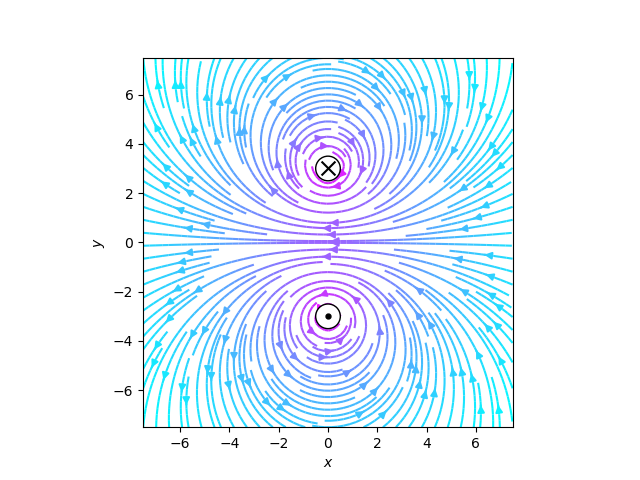
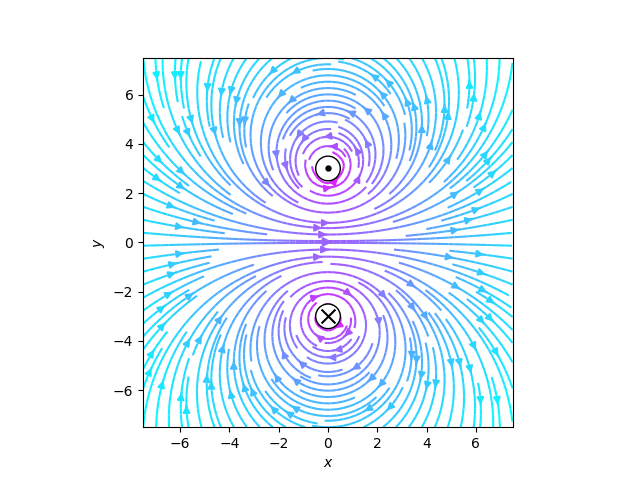
EBFieldSolver

diff --git a/src/StaticField.py b/src/StaticField.py
@@ -4,7 +4,7 @@ import matplotlib.pyplot as plt
 import numpy as np
 import FieldUtil as util
 import FieldAnimation as anim
-import FieldOperation
+import FieldOperator
 
 from FieldObject import PointCharge, Conductor
 
@@ -37,8 +37,8 @@ conductors = []
 # conductors.append(Conductor(1.0, [0.0, 0.0]))
 
 # conductor loop
-conductors.append(Conductor(-1.0, [0.0, 3.0]))
-conductors.append(Conductor(1.0, [0.0, -3.0]))
+conductors.append(Conductor(1.0, [0.0, 3.0]))
+conductors.append(Conductor(-1.0, [0.0, -3.0]))
 
 # coil
 # for i in np.linspace(-5, 5, 10):
@@ -52,10 +52,10 @@ def compute_total_field(x, y, field_objects, potential_field=False):
         for i in range(len(x)):
             for j in range(len(y)):
                 if potential_field:
-                    field = field_object.compute_potential(x[i][j], y[i][j])
+                    field = field_object.compute_potential(x[i][j], y[i][j], 0)
                     x_field[i][j] += field
                 else:
-                    field = field_object.compute_field(x[i][j], y[i][j])
+                    field = field_object.compute_field(x[i][j], y[i][j], 0)
                     x_field[i][j] += field[0]
                     y_field[i][j] += field[1]
     return [x_field, y_field]
@@ -81,25 +81,24 @@ if __name__ == "__main__":
     X, Y = np.meshgrid(np.linspace(-xy_max, xy_max, n_xy),
                        np.linspace(-xy_max, xy_max, n_xy))
 
+    "E-Field of charges"
     E = compute_total_field(X, Y, charges)
     Z = compute_total_field(X, Y, charges, potential_field=True)
     levels = np.linspace(np.min(Z[0]) / 10, np.max(Z[0]) / 10, 10)
     total_bodies = compute_bodies(charges)
 
     # div_E = FieldOperation.divergence(X, Y, E)
-    grad_phi = FieldOperation.gradient(Z[0])
+    grad_phi = FieldOperator.grad(Z[0])
     grad_phi_norm = np.hypot(grad_phi[0], grad_phi[1])
 
-    # util.plot_arrows(X, Y, grad_phi[0] / grad_phi_norm, grad_phi[1] / grad_phi_norm)
-    # util.plot_intensity(X, Y, div_E, cmap='coolwarm')
     util.plot_streamlines(X, Y, grad_phi[0], grad_phi[1], color='grey')
     util.plot_contourf(X, Y, Z[0], levels)
     util.plot_forms(total_bodies)
 
     anim.render_frame(loc='charges', aspect=True)
 
+    "B-Field of conductors"
     B = compute_total_field(X, Y, conductors)
-    # A = np.array([0, 0, compute_total_field(X, Y, conductors, potential_field=True)])
     total_bodies = compute_bodies(conductors)
     total_details = compute_details(conductors)
 
@@ -107,12 +106,11 @@ if __name__ == "__main__":
     for conductor in conductors:
         for i in range(len(X)):
             for j in range(len(Y)):
-                rot_x, rot_y = FieldOperation.curl_x(X[i][j], Y[i][j], conductor)
+                rot_x, rot_y, rot_z = FieldOperator.curl(X[i][j], Y[i][j], 0, conductor.compute_potential)
                 rot_Ax[i][j] += rot_x
                 rot_Ay[i][j] += rot_y
     rot_A_norm = np.hypot(rot_Ax, rot_Ay)
 
-    # util.plot_arrows(X, Y, rot_A_x / rot_A_norm, rot_A_y / rot_A_norm)
     util.plot_streamlines(X, Y, rot_Ax, rot_Ay, color=np.log(rot_A_norm), cmap='cool', zorder=1, density=2)
     util.plot_forms(total_bodies)
     util.plot_details(total_details)

diff --git a/src/FieldObject.py b/src/FieldObject.py
@@ -22,15 +22,18 @@ class PointCharge:
 
         return plt.Circle(self.r0, self.R, color=q_color)
 
-    def compute_field(self, x, y):
+    def compute_field(self, x, y, z):
         r = np.hypot(x - self.r0[0], y - self.r0[1])
         Ex = self.const * self.q * (x - self.r0[0]) / r ** 3
         Ey = self.const * self.q * (y - self.r0[1]) / r ** 3
-        return [Ex, Ey]
+        Ez = 0
 
-    def compute_potential(self, x, y):
+        return [Ex, Ey, Ez]
+
+    def compute_potential(self, x, y, z):
         r = np.hypot(x - self.r0[0], y - self.r0[1])
         phi = self.const * self.q * (1 / r)
+
         return phi
 
 
@@ -62,14 +65,18 @@ class Conductor:
 
         return [self.r0[0], self.r0[1], size, I_color, I_direction]
 
-    def compute_field(self, x, y):
+    def compute_field(self, x, y, z):
         mag = self.const * (self.I / np.hypot(x - self.r0[0], y - self.r0[1]))
         Bx = mag * (-np.sin(np.arctan2(x - self.r0[0], y - self.r0[1])))
         By = mag * (np.cos(np.arctan2(x - self.r0[0], y - self.r0[1])))
+        Bz = 0
 
-        return [By, Bx]
+        return [By, Bx, Bz]
 
-    def compute_potential(self, x, y):
+    def compute_potential(self, x, y, z):
         mag = -(1 / 2) * self.const * self.I
+        Bx = 0
+        By = 0
         Bz = mag * np.log((x - self.r0[0])**2 + (y - self.r0[1])**2)
-        return Bz
+
+        return [Bx, By, Bz]

diff --git a/src/FieldOperator.py b/src/FieldOperator.py
@@ -1,0 +1,38 @@
+import numpy as np
+from scipy.misc import derivative
+
+
+def grad(f):
+    dy, dx = np.gradient(f)
+    return [dx, dy]
+
+
+def gradient(x, y, z, f):
+    dx = derivative(lambda x0: f(x0, y, z), x, 0.01)
+    dy = derivative(lambda y0: f(x, y0, z), y, 0.01)
+    dz = derivative(lambda z0: f(x, y, z0), z, 0.01)
+    return [dx, dy, dz]
+
+
+def divergence(x, y, z, f):
+    dx = derivative(lambda x0: f(x0, y, z), x, 0.01)
+    dy = derivative(lambda y0: f(x, y0, z), y, 0.01)
+    dz = derivative(lambda z0: f(x, y, z0), z, 0.01)
+    return dx + dy + dz
+
+
+def curl(x, y, z, f):
+    dfx_dy = derivative(lambda y0: f(x, y0, z)[0], y, 0.01)
+    dfx_dz = derivative(lambda z0: f(x, y, z0)[0], z, 0.01)
+
+    dfy_dx = derivative(lambda x0: f(x0, y, z)[1], x, 0.01)
+    dfy_dz = derivative(lambda z0: f(x, y, z0)[1], z, 0.01)
+
+    dfz_dx = derivative(lambda x0: f(x0, y, z)[2], x, 0.01)
+    dfz_dy = derivative(lambda y0: f(x, y0, z)[2], y, 0.01)
+
+    dx = dfz_dy - dfy_dz
+    dy = dfx_dz - dfz_dx
+    dz = dfy_dx - dfx_dy
+
+    return [dx, dy, dz]
